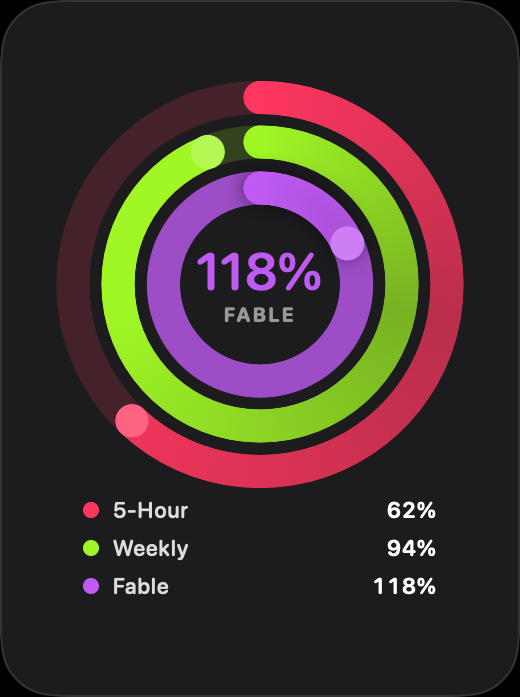
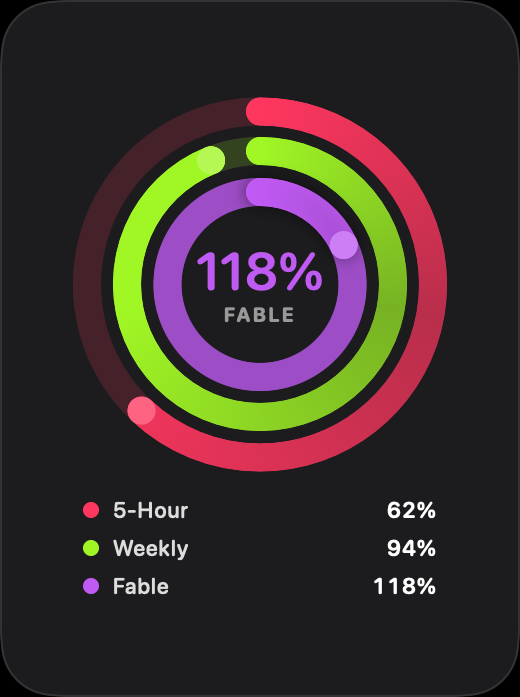
Stop the rings clipping when the frosted background is off
A stroked Circle straddles its path: half the line width falls outside the
frame. The outermost band therefore overhung the widget by thickness/2, which
the frosted background's 16pt of padding quietly absorbed — and which became
obvious the moment that background was switched off and the padding dropped
to 4pt.

RingView now insets by thickness/2 so the stroke stays inside its bounds, and
the no-background layout keeps enough padding for the overflow-lap shadow to
land somewhere.

The same inset fixes a bug nobody had reported: ring hit-testing assumed an
outer edge at side/2, while the drawn band actually reached side/2 +
thickness/2. Every click was resolved against geometry half a stroke-width off
from what was on screen. The two now agree by construction.

Correcting the geometry also exposed that the centre hole reserve was too
tight. It had only looked adequate because the mismatch left accidental extra
room; with the maths honest, a three-digit percentage filled the hole edge to
edge and grazed the innermost band. Raised from 34% to 42% of the diameter.

The preview renderer sized the readout to the whole hole while the widget
allows 82% of it, so the README image was flattering the real layout. Aligned.

diff --git a/Sources/ClaudeUsageWidget/UI/ActivityRingsView.swift b/Sources/ClaudeUsageWidget/UI/ActivityRingsView.swift
@@ -24,7 +24,11 @@ struct ActivityRingsView: View {
 
   /// Fraction of the overall diameter kept clear in the middle, so the
   /// readout always has somewhere to live.
-  static let minimumHoleFraction: Double = 0.34
+  ///
+  /// 0.34 was too tight: a three-digit percentage filled it edge to edge and
+  /// grazed the innermost band. It only looked acceptable while the ring
+  /// geometry was half a stroke-width off and accidentally left extra room.
+  static let minimumHoleFraction: Double = 0.42
 
   /// Thins the bands when there are enough rings to close up the centre.
   ///
@@ -79,6 +83,7 @@ struct ActivityRingsView: View {
             thickness: t,
             progress: appeared || !animated ? ring.progress : 0
           )
+          // +t because RingView insets by t/2 on each side.
           .frame(
             width: max(t, side - inset * 2),
             height: max(t, side - inset * 2))
@@ -150,6 +155,14 @@ struct RingView: View {
         }
       }
     }
+    // A stroked Circle straddles its path: half the line width falls *outside*
+    // the frame. Without this inset the outermost band overhangs the widget by
+    // thickness/2 and gets clipped — invisible while the frosted background
+    // supplies 16pt of padding, obvious the moment it is switched off.
+    //
+    // Insetting also makes the geometry match what `ringIndex(at:)` assumes:
+    // an outer edge at exactly side/2, rather than side/2 + thickness/2.
+    .padding(thickness / 2)
   }
 
   /// The sweep must return to its starting colour, or the 360°→0° wrap shows

diff --git a/Sources/ClaudeUsageWidget/UI/WidgetView.swift b/Sources/ClaudeUsageWidget/UI/WidgetView.swift
@@ -56,7 +56,9 @@ struct WidgetView: View {
         if config.showLegend { legend }
       }
     }
-    .padding(config.showBackground ? 16 : 4)
+    // Without the frosted panel there is no padding to hide behind, and the
+    // overflow-lap shadow still needs somewhere to fall.
+    .padding(config.showBackground ? 16 : max(8, config.ringThickness * 0.4))
     .background(background)
     .overlay(alignment: .topLeading) { if hovering { closeButton } }
     .overlay(alignment: .topTrailing) { if hovering && !needsToken { controls } }

diff --git a/Sources/ClaudeUsageWidget/App/PreviewRenderer.swift b/Sources/ClaudeUsageWidget/App/PreviewRenderer.swift
@@ -68,7 +68,9 @@ enum PreviewRenderer {
               }
               .lineLimit(1)
               .minimumScaleFactor(0.4)
-              .frame(maxWidth: size * 0.72 * ActivityRingsView.minimumHoleFraction)
+              // Same 0.82 of the hole the widget itself allows, so this image
+              // does not flatter the real layout.
+              .frame(maxWidth: size * 0.72 * ActivityRingsView.minimumHoleFraction * 0.82)
             }
           }
 
